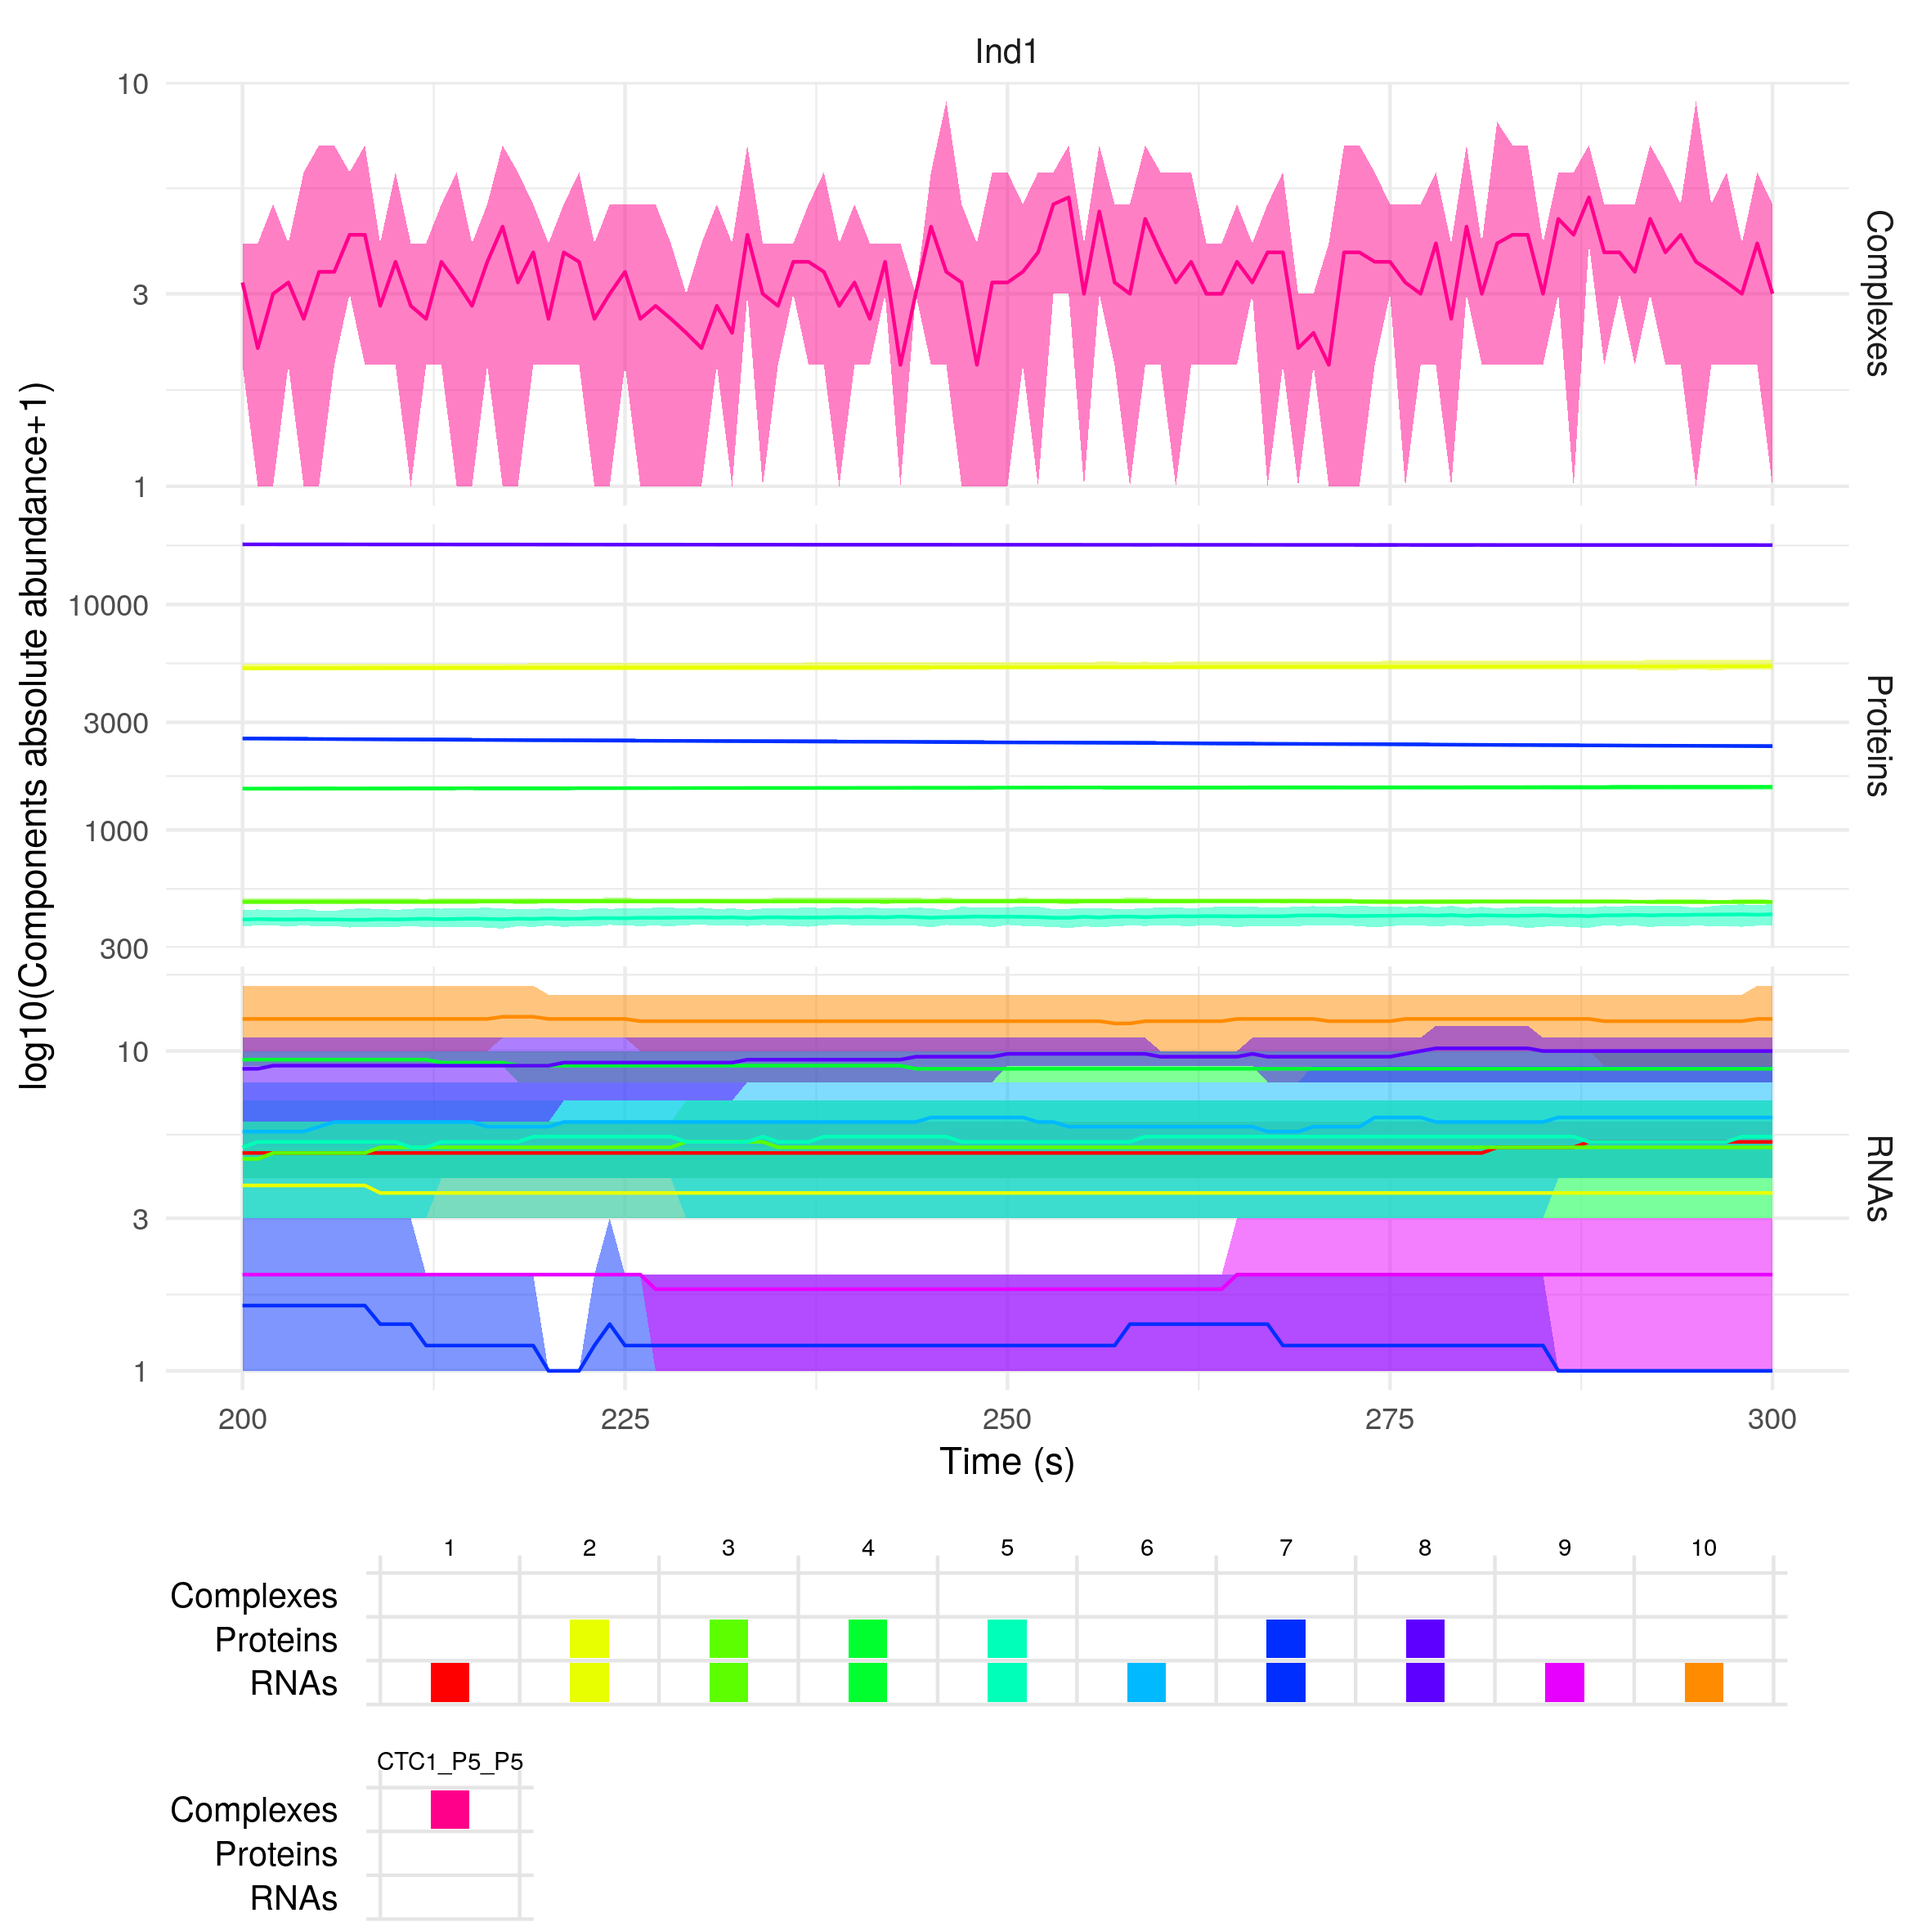
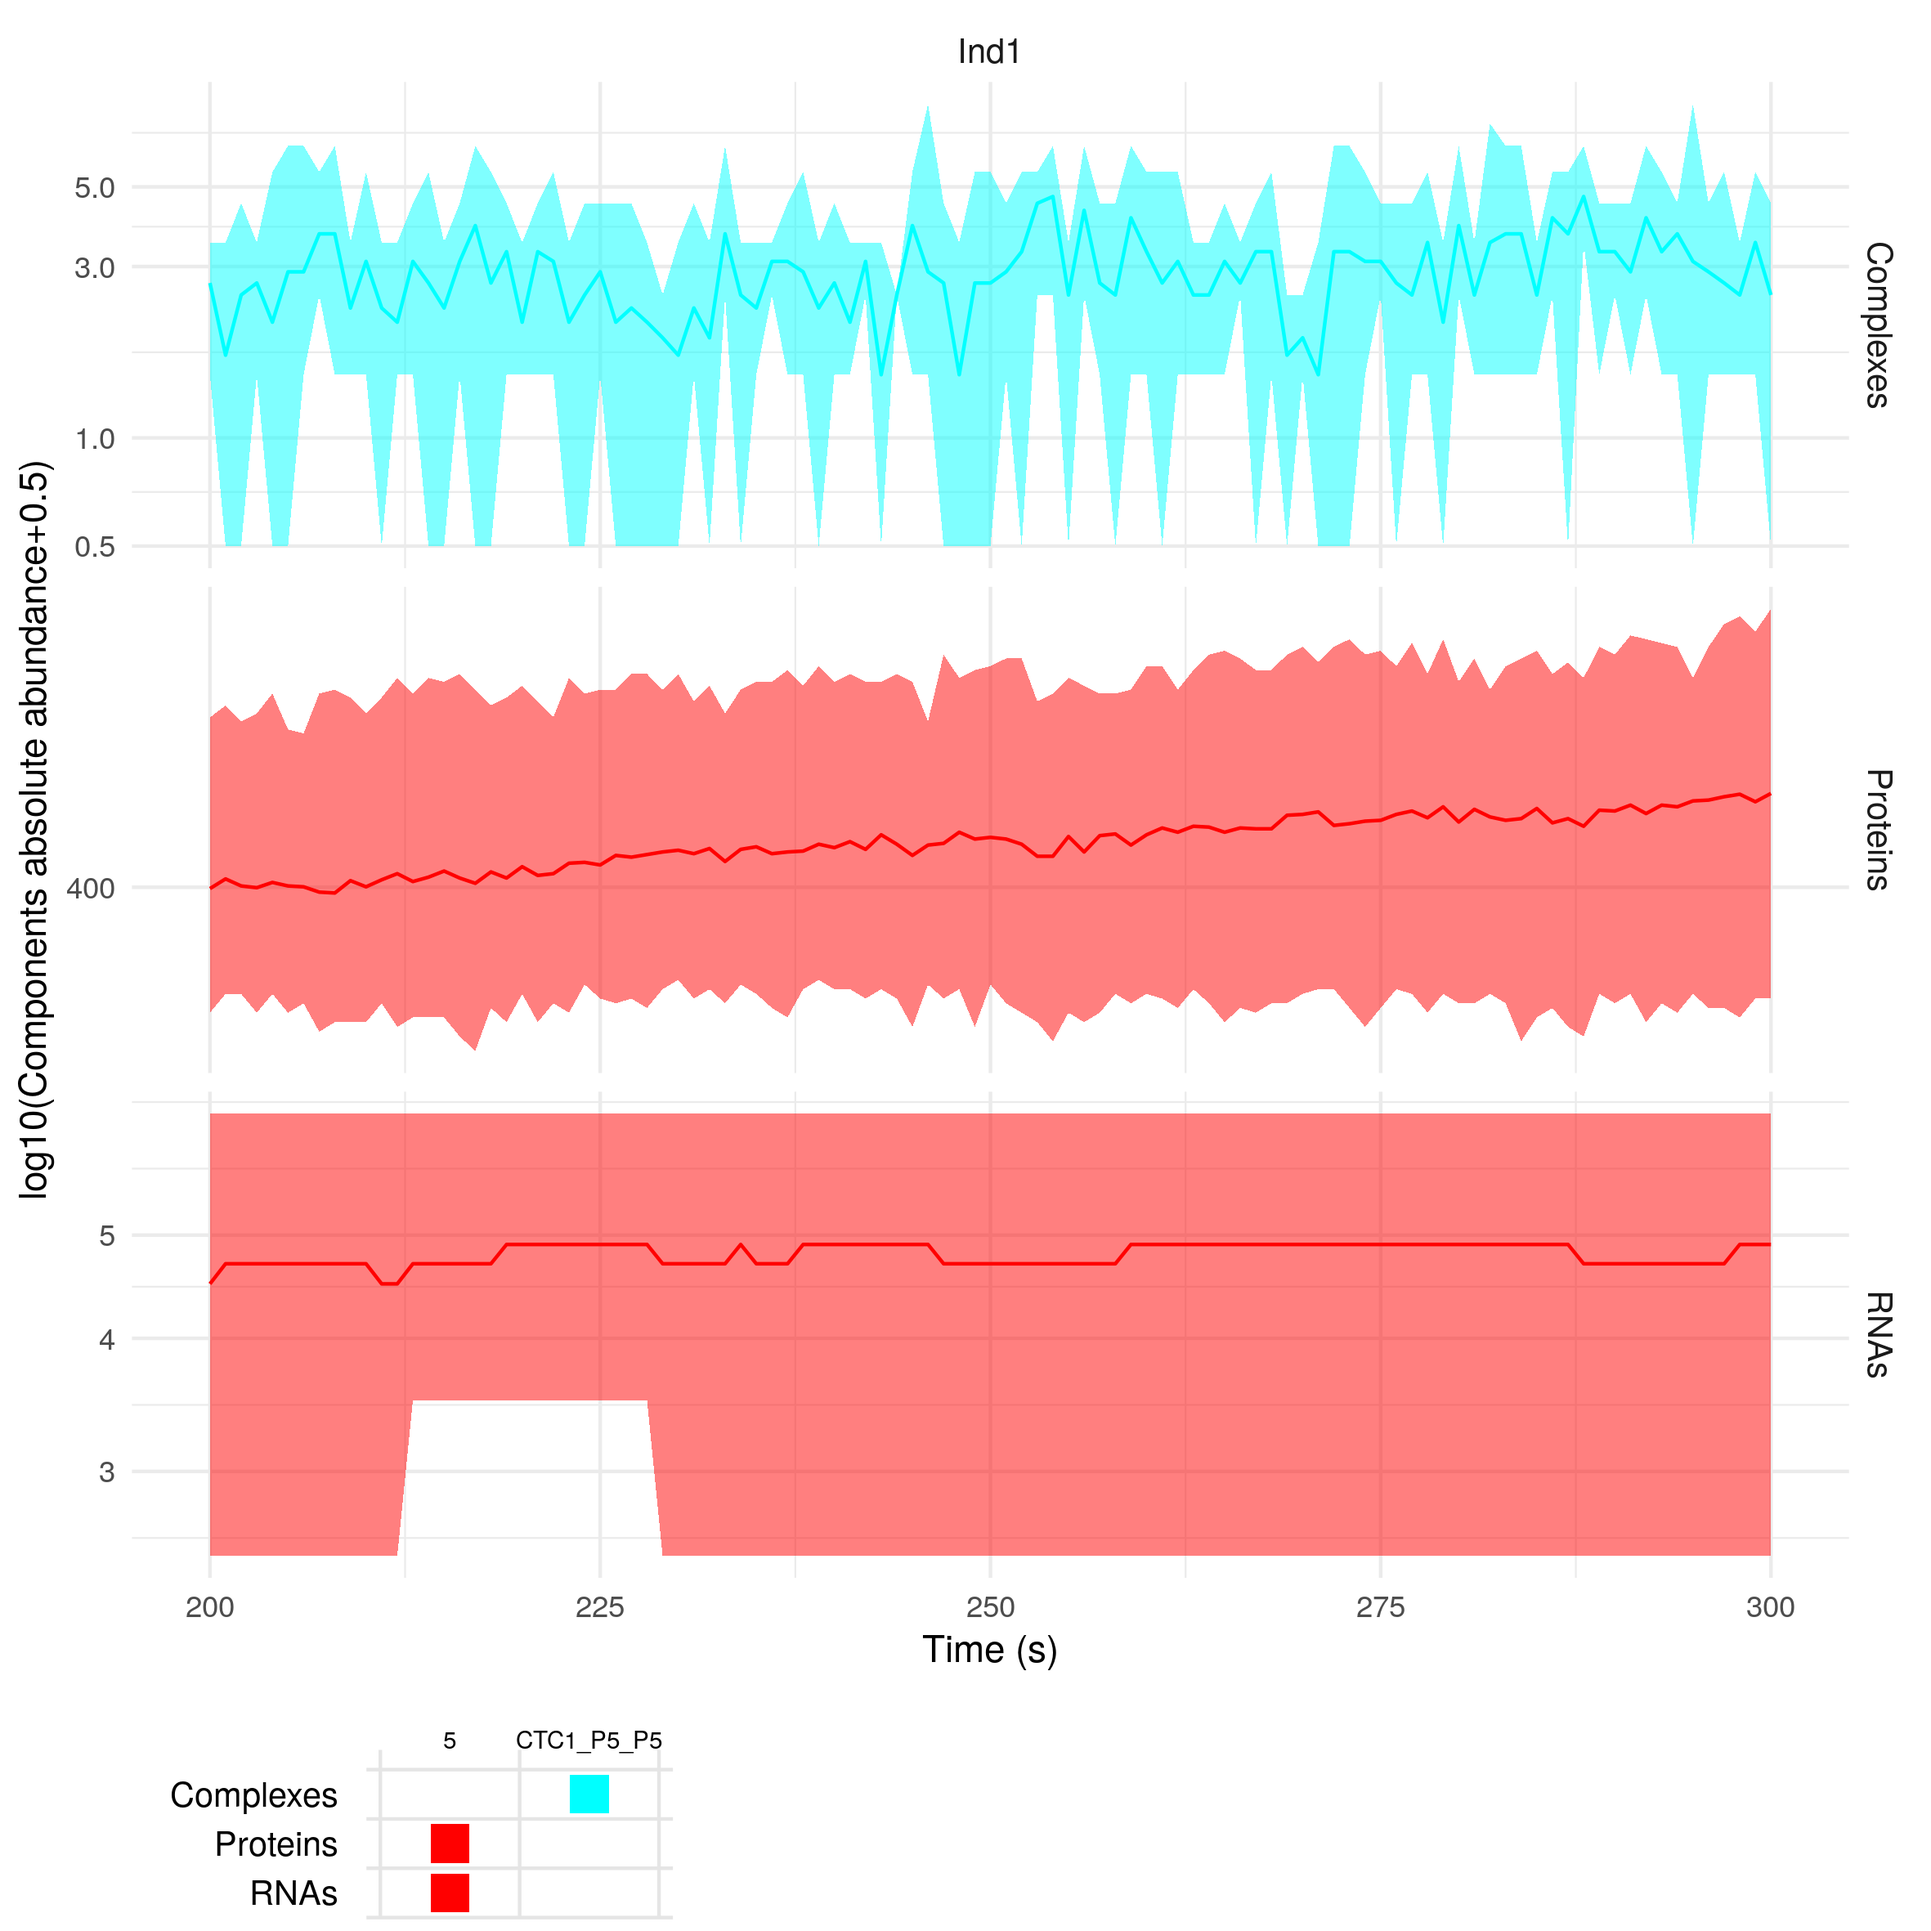
Added the option to focus on some genes/molecules when plotting the simulation (plotSimulation and plot HeatMap)

diff --git a/docs/index.md b/docs/index.md
@@ -711,9 +711,9 @@ Time: 0 s - 2000 s
 
 The function prints on your console the individuals, trials and timespan considered for the summary. You can suppress this display with the argument `verbose = F` in the function call.
 
-If you want to focus on one *in silico* individual, and zoom on a smaller time-period, you can use:
+If you want to focus on one *in silico* individual, a specific group of genes, and zoom on a smaller time-period, you can use:
 ```r
-plotSimulation(sim$Simulation, inds = c("Ind1"), timeMin = 200, timeMax = 300)
+plotSimulation(sim$Simulation, molecules = c(5, "CTC1"), inds = c("Ind1"), timeMin = 200, timeMax = 300)
 ```
 ![plotSimulation2](images/plotSimulation2.png)
 
